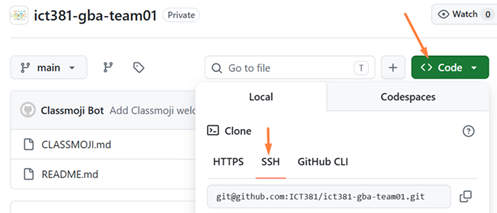
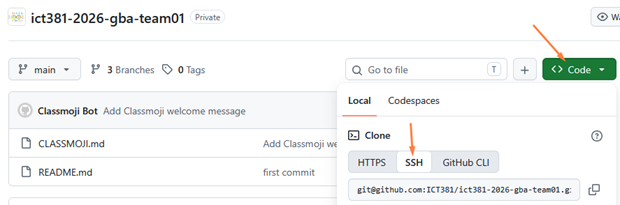
modify lab0E

diff --git a/LAB_0E.md b/LAB_0E.md
@@ -127,7 +127,7 @@ Once the repositories are published, you will be able to access them.
 
 5. Click on the **Code** button and click **SSH**.
 
-   Sample Screenshot for StaycationX repo:
+   Sample Screenshot for TMA frontend repo:
 
    ![](images/lab0E/classmoji-clone-personal-repo.png)
 
